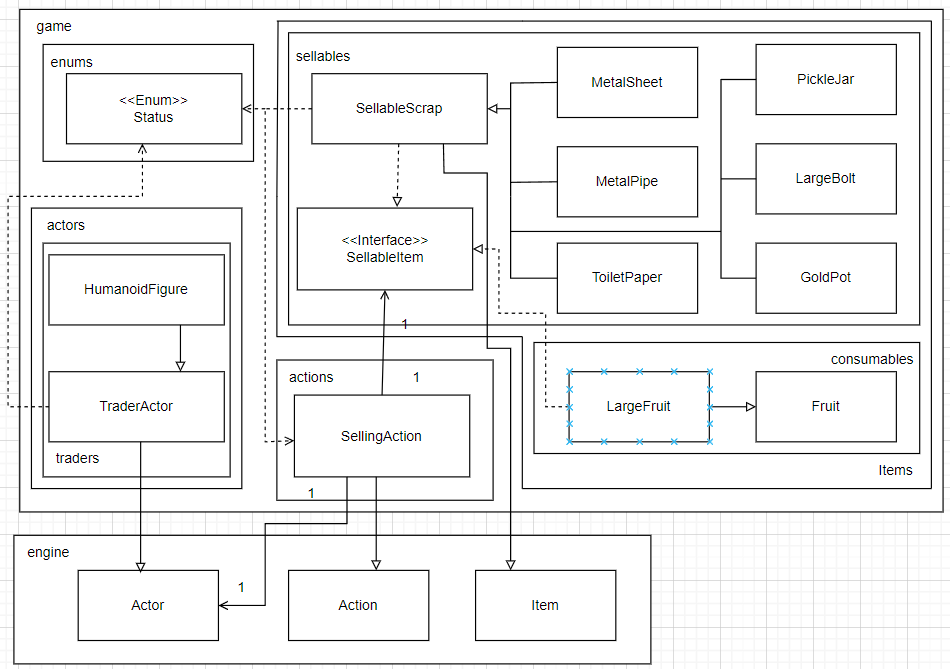
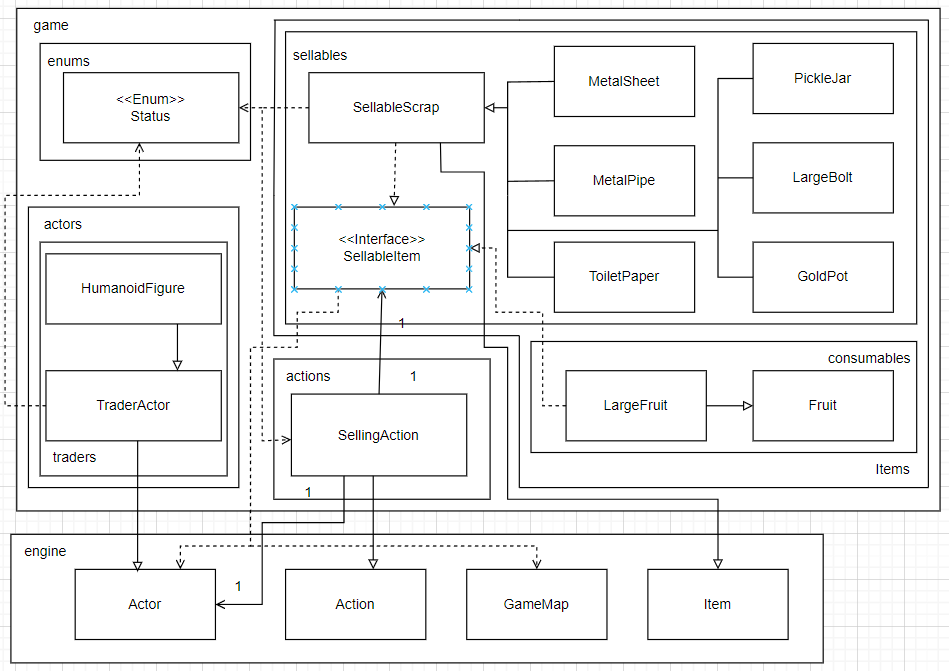
Minor changes: - Change removing intern when died by toilet paper from SellingAction to ToiletPaper.

diff --git a/src/game/items/sellables/ToiletPaper.java b/src/game/items/sellables/ToiletPaper.java
@@ -1,8 +1,11 @@
 package game.items.sellables;
 
 import edu.monash.fit2099.engine.actors.Actor;
+import edu.monash.fit2099.engine.positions.GameMap;
 
 import java.util.Random;
+
+import static edu.monash.fit2099.engine.actors.attributes.BaseActorAttributes.HEALTH;
 
 public class ToiletPaper extends SellableScrap {
     /**
@@ -28,14 +31,19 @@ public class ToiletPaper extends SellableScrap {
      * if the chance of this item is met, the seller will be punished/instantly killed
      *
      * @param actor the seller of the item.
-     * @return price of this object in int
+     * @param map current map.
      */
     @Override
-    public void sellItem(Actor actor) {
+    public void sellItem(Actor actor, GameMap map) {
         int percentage = new Random().nextInt(100);
         if (percentage < super.getChance()){
             // deal max damage to intern
             actor.hurt(Integer.MAX_VALUE);
+            // if the intern's health is 0 / dead.
+            if (actor.getAttribute(HEALTH) == 0){
+                // remove intern from the map and terminate the game.
+                actor.unconscious(actor, map);
+            }
         } else {
             actor.addBalance(super.getPrice());
             actor.removeItemFromInventory(this);

diff --git a/src/game/items/sellables/SellableScrap.java b/src/game/items/sellables/SellableScrap.java
@@ -3,6 +3,7 @@ package game.items.sellables;
 import edu.monash.fit2099.engine.actions.ActionList;
 import edu.monash.fit2099.engine.actors.Actor;
 import edu.monash.fit2099.engine.items.Item;
+import edu.monash.fit2099.engine.positions.GameMap;
 import edu.monash.fit2099.engine.positions.Location;
 import game.actions.SellAction;
 import game.enums.Status;
@@ -96,9 +97,10 @@ public class SellableScrap extends Item implements SellableItem {
      * Remove the item from their inventory
      *
      * @param actor the seller.
+     * @param map current map.
      */
     @Override
-    public void sellItem(Actor actor) {
+    public void sellItem(Actor actor, GameMap map) {
         // add item's price to actor's balance
         actor.addBalance(this.getPrice());
         // remove the sold item from actor's inventory

diff --git a/src/game/items/consumables/LargeFruit.java b/src/game/items/consumables/LargeFruit.java
@@ -2,6 +2,7 @@ package game.items.consumables;
 
 import edu.monash.fit2099.engine.actions.ActionList;
 import edu.monash.fit2099.engine.actors.Actor;
+import edu.monash.fit2099.engine.positions.GameMap;
 import edu.monash.fit2099.engine.positions.Location;
 import game.actions.SellAction;
 import game.enums.Status;
@@ -57,8 +58,9 @@ public class LargeFruit extends Fruit implements SellableItem {
      * Remove the item from their inventory
      *
      * @param actor the seller.
+     * @param map current map.
      */
-    public void sellItem(Actor actor) {
+    public void sellItem(Actor actor, GameMap map) {
         actor.addBalance(this.getPrice());
         actor.removeItemFromInventory(this);
     }

diff --git a/src/game/actions/SellAction.java b/src/game/actions/SellAction.java
@@ -36,12 +36,10 @@ public class SellAction extends Action {
     public String execute(Actor actor, GameMap map){
         String result = actor + " sold the " + this.item + " for " + this.cost + " credits";
         // initiate the selling process through item's sellItem action.
-        item.sellItem(actor);
+        item.sellItem(actor, map);
         // if the intern's health is 0 / dead.
         if (actor.getAttribute(HEALTH) == 0){
             result = "The " + actor + " is instantly killed by " + this.buyer + ".";
-            // remove intern from the map and terminate the game.
-            actor.unconscious(actor, map);
         }
         return result;
     }

diff --git a/src/game/items/sellables/SellableItem.java b/src/game/items/sellables/SellableItem.java
@@ -1,6 +1,7 @@
 package game.items.sellables;
 
 import edu.monash.fit2099.engine.actors.Actor;
+import edu.monash.fit2099.engine.positions.GameMap;
 
 /**
  * Represents items that can be sold within the game.
@@ -26,6 +27,7 @@ public interface SellableItem {
      * Sells the item to the specified actor.
      *
      * @param actor the actor to whom the item is being sold.
+     * @param map current map.
      */
-    void sellItem(Actor actor);
+    void sellItem(Actor actor, GameMap map);
 }
